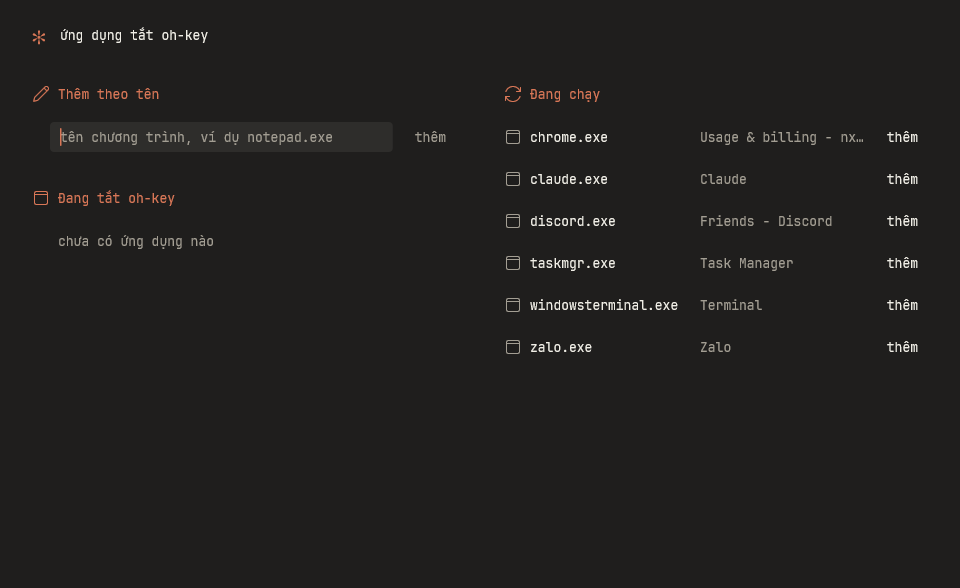
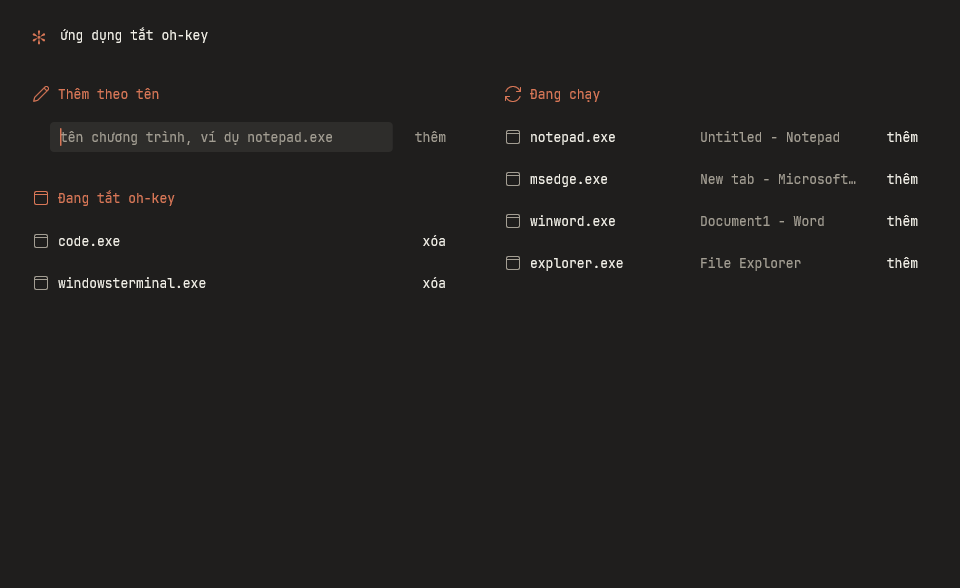
Prepare the source archive for public release
Docs point install, issues and security reports at codepawl/oh-key-releases.
The excluded-apps render draws sample apps instead of this machine's windows.
Test fixtures use made-up names, internal notes are reworded, and the agent
notes are left out of git archive.

diff --git a/crates/oh-key-app/src/report.rs b/crates/oh-key-app/src/report.rs
@@ -150,7 +150,7 @@ pub fn scrub_text(text: &str, identity: &Identity, max_characters: usize) -> Str
     scrubbed.chars().take(max_characters).collect()
 }
 
-/// The 8.3 form Windows may use for a long profile folder: `NXAN2~1` for `nxan2long`. Only a
+/// The 8.3 form Windows may use for a long profile folder: `SOMEON~1` for `someonelong`. Only a
 /// name that is too long or holds a space gets one.
 fn short_folder_name(user_name: &str) -> Option<String> {
     let needs_short_form = user_name.chars().count() > 8 || user_name.contains(' ');
@@ -1038,12 +1038,12 @@ mod tests {
     #[test]
     fn names_are_matched_whatever_the_case_or_script() {
         let identity = Identity {
-            home: Some("C:\\Users\\Nguy\u{1ec5}n An".to_string()),
-            user_name: Some("Nguy\u{1ec5}n An".to_string()),
+            home: Some("C:\\Users\\Tr\u{1ea7}n Lan".to_string()),
+            user_name: Some("Tr\u{1ea7}n Lan".to_string()),
             computer_name: None,
         };
         assert_eq!(
-            scrub_text("by NGUY\u{1ec4}N AN today", &identity, 100),
+            scrub_text("by TR\u{1ea6}N LAN today", &identity, 100),
             "by user today"
         );
     }
@@ -1052,11 +1052,11 @@ mod tests {
     fn the_short_form_of_a_long_profile_folder_is_scrubbed() {
         let identity = Identity {
             home: None,
-            user_name: Some("Nguyenxuanan".to_string()),
+            user_name: Some("Someonelongname".to_string()),
             computer_name: None,
         };
         assert_eq!(
-            scrub_text(r"C:\Users\NGUYEN~1\a.txt", &identity, 100),
+            scrub_text(r"C:\Users\SOMEON~1\a.txt", &identity, 100),
             r"C:\Users\user\a.txt"
         );
     }

diff --git a/crates/oh-key-app/src/excluded_apps_window.rs b/crates/oh-key-app/src/excluded_apps_window.rs
@@ -949,10 +949,12 @@ fn scroll_note(rows: &Range<usize>, total: usize) -> String {
 
 /// `oh-key.exe --render-png excluded-apps out.png`: the window drawn into a file, with the
 /// settings' list and the programs open now.
+/// Draws sample apps, never this machine's settings or open windows: the render ships in the
+/// docs, and window titles carry private text.
 pub fn render_png(graphics: &Graphics, path: &Path) -> Result<()> {
     let offscreen = Offscreen::new(graphics, WIDTH as u32, window_height().round() as u32)?;
-    let apps = oh_key_ipc::load_settings().excluded_apps;
-    let running = running_programs();
+    let apps = vec!["code.exe".to_owned(), "windowsterminal.exe".to_owned()];
+    let running = sample_running_programs();
     let offered = programs_to_offer(&running, &apps);
     let view = View {
         apps: &apps,
@@ -963,6 +965,21 @@ pub fn render_png(graphics: &Graphics, path: &Path) -> Result<()> {
     };
     draw(&offscreen.target, graphics, &view, None);
     offscreen.save_png(path)
+}
+
+fn sample_running_programs() -> Vec<RunningApp> {
+    [
+        ("notepad.exe", "Untitled - Notepad"),
+        ("msedge.exe", "New tab - Microsoft Edge"),
+        ("winword.exe", "Document1 - Word"),
+        ("explorer.exe", "File Explorer"),
+    ]
+    .into_iter()
+    .map(|(exe, title)| RunningApp {
+        exe: exe.to_owned(),
+        title: title.to_owned(),
+    })
+    .collect()
 }
 
 #[cfg(test)]

diff --git a/crates/oh-key-app/src/mode_effects.rs b/crates/oh-key-app/src/mode_effects.rs
@@ -3,8 +3,8 @@
 //!
 //! Full screen apps still get both: that is where the tray icon is hidden and the user most
 //! needs to see the switch. Windows reports any window covering the monitor (a maximised
-//! browser, a borderless game) as "busy", so that state cannot mean "quiet" (measured on the
-//! owner's PC, 2026-11-13: "busy" with only ordinary apps open, which hid the effect at random).
+//! browser, a borderless game) as "busy", so that state cannot mean "quiet" (with only ordinary
+//! apps open it can report "busy", which hid the effect at random).
 //! Only two states hold something back: a Direct3D game in exclusive full screen keeps the sound
 //! but loses the badge, since a topmost window can knock it out of exclusive mode, and
 //! Windows' presentation mode silences both. The badge also follows Windows' "Animation

diff --git a/crates/oh-key-engine/tests/english_mixed.rs b/crates/oh-key-engine/tests/english_mixed.rs
@@ -98,7 +98,7 @@ fn code_and_tech_tokens_survive() {
                 "https://github.com/codepawl/oh-key",
                 "https://github.com/codepawl/oh-key",
             ),
-            ("an.nx@gmail.com", "an.nx@gmail.com"),
+            ("mai.lan@gmail.com", "mai.lan@gmail.com"),
             ("v1.2.3", "v1.2.3"),
             ("--release", "--release"),
             ("package.json", "package.json"),

diff --git a/crates/oh-key-engine/examples/mixed_corpus.rs b/crates/oh-key-engine/examples/mixed_corpus.rs
@@ -350,8 +350,8 @@ const CODE_AND_TECH: &[&str] = &[
     "__init__",
     "https://github.com/codepawl/oh-key",
     "a.b@example.com",
-    "an.nx@gmail.com",
-    "C:\\Users\\an\\file.txt",
+    "mai.lan@gmail.com",
+    "C:\\Users\\lan\\file.txt",
     "/usr/local/bin",
     "./src/main.rs",
     "v1.2.3",

diff --git a/docs/research/unikey-engine.md b/docs/research/unikey-engine.md
@@ -9,7 +9,7 @@ GPL, "either version 2 of the License, or (at your option) any later version" (h
   charset.cpp, charset.h, data.cpp, convert.cpp, error.cpp, pattern.cpp, pattern.h, unikey.cpp, unikey.h, vnconv.h, keycons.h
 NO licence header at all: byteio.cpp, byteio.h, data.h (tiny; do not rely on them, rewrite).
 Whole ibus-unikey repo root LICENSE = GPLv3 (ibus glue in src/), ukengine README: "ukengine (with changes for better use in my project) taking from project x-unikey".
-Nothing is "GPL v2 only". Everything is v2-or-later, so a port can be GPL-2.0-or-later (also GPLv3-compatible). If oh-key copies only the engine files (LGPL) it could be LGPL-2.0+, but the charset tables (data.cpp) and keycons/vnconv are GPL, so a port that includes them must be GPL-2.0-or-later. Practical rule: make oh-key GPL-2.0-or-later (or GPL-3.0-or-later) and keep a NOTICE crediting Pham Kim Long / UniKey; or avoid copying by regenerating the Unicode tables from Unicode itself and the syllable tables from Vietnamese phonotactics (they are facts), then the licence is free. Flag to lead: this decides the workspace `license` field; a private repo is fine either way, but publishing binaries needs GPL source offer.
+Nothing is "GPL v2 only". Everything is v2-or-later, so a port can be GPL-2.0-or-later (also GPLv3-compatible). If oh-key copies only the engine files (LGPL) it could be LGPL-2.0+, but the charset tables (data.cpp) and keycons/vnconv are GPL, so a port that includes them must be GPL-2.0-or-later. Practical rule: make oh-key GPL-2.0-or-later (or GPL-3.0-or-later) and keep a NOTICE crediting Pham Kim Long / UniKey; or avoid copying by regenerating the Unicode tables from Unicode itself and the syllable tables from Vietnamese phonotactics (they are facts), then the licence is free. Publishing binaries needs the GPL source to go with them.
 
 ====================================================================
 2. DATA TABLES
@@ -117,4 +117,4 @@ Approach: hub-and-spoke through StdVnChar. Each charset implements `nextInput(by
 - Backspace accounting (getSeqSteps) for the engine: UNICODE and XUTF8 -> 1 per char; everything else -> encoded byte length of the char (apps delete by bytes in these charsets); UNIDECOMPOSED -> bytes/2.
 OhKey recommendation: Unicode NFC precomposed output only in the engine (backs = chars); keep legacy charsets in a separate converter crate using the std-index hub; generate the tables from data.cpp (SingleByteTables lines 96-242, DoubleByteTables 244-342, WinCP1258 343-394, VIQR/UnicodeComposite 441-520) by a script rather than retyping; copying them makes that crate GPL-2.0+.
 
-SUMMARY OF INVOLVED FILES: ukengine/{ukengine.cpp (2388 lines, algorithm), inputproc.cpp (keymaps), vnlexi.h (enums), data.cpp (charset tables), mactab.cpp, charset.cpp}. No project files were created or modified; no checks run (research only).
+SUMMARY OF INVOLVED FILES: ukengine/{ukengine.cpp (2388 lines, algorithm), inputproc.cpp (keymaps), vnlexi.h (enums), data.cpp (charset tables), mactab.cpp, charset.cpp}.

diff --git a/README.md b/README.md
@@ -18,17 +18,15 @@ Early. The engine, charset conversion and the Windows app are in place. The macO
 
 ### Windows
 
-While the repository is private, the install needs the [GitHub CLI](https://cli.github.com) signed in.
+Run this in PowerShell:
 
 ```powershell
-gh auth login
-gh repo clone codepawl/oh-key
-.\oh-key\install.ps1
+irm https://raw.githubusercontent.com/codepawl/oh-key-releases/main/install.ps1 | iex
 ```
 
-`install.ps1` downloads the latest release for your processor (x64, x86 or arm64) and checks its SHA-256. It copies `oh-key.exe` and `oh-key-cli.exe` to `%LOCALAPPDATA%\Programs\oh-key` and starts the app. No administrator rights are needed. Add `-StartAtSignIn` to start the app at every sign-in.
+The script downloads the latest release for your processor (x64, x86 or arm64) and checks its SHA-256. It copies `oh-key.exe` and `oh-key-cli.exe` to `%LOCALAPPDATA%\Programs\oh-key` and starts the app. No administrator rights are needed. To start the app at every sign-in too, save `install.ps1` and run `.\install.ps1 -StartAtSignIn`.
 
-You can also download `oh-key-windows-<arch>.zip` from the latest release and unzip it anywhere.
+You can also download `oh-key-windows-<arch>.zip` from the [latest release](https://github.com/codepawl/oh-key-releases/releases/latest) and unzip it anywhere.
 
 ### macOS
 

diff --git a/server/report-worker/README.md b/server/report-worker/README.md
@@ -31,7 +31,7 @@ npx wrangler secret put GITHUB_TOKEN
 npm run deploy
 ```
 
-Make sure the `auto-report` label exists in the repo (GitHub drops unknown labels on issue creation only if you lack triage rights; creating the label first is safest). Then set `REPORT_ENDPOINT` in the Windows and macOS apps to `https://oh-key-report.<your-subdomain>.workers.dev/v1/report`.
+Make sure the `auto-report` label exists in the repo (GitHub drops unknown labels on issue creation only if you lack triage rights; creating the label first is safest). Then set `REPORT_ENDPOINT` in the Windows and macOS apps to the address of your Worker (the project's own runs on `https://oh-key-report.codepawl.com/v1/report`, set by `routes` in `wrangler.toml`).
 
 ## Develop
 

diff --git a/SECURITY.md b/SECURITY.md
@@ -4,7 +4,7 @@ An input method sees every key you type, so security reports matter to us.
 
 ## Report a problem
 
-Report a security problem privately on GitHub: open the **Security** tab of this repository and pick **Report a vulnerability**. Do not open a public issue for it.
+Report a security problem privately on GitHub: open the **Security** tab of [codepawl/oh-key-releases](https://github.com/codepawl/oh-key-releases/security) and pick **Report a vulnerability**. Do not open a public issue for it.
 
 We reply as soon as we can and say what we will do.
 

diff --git a/CONTRIBUTING.md b/CONTRIBUTING.md
@@ -4,7 +4,7 @@ Thanks for helping. The most useful things right now are typing bug reports and 
 
 ## Report a bug
 
-Open an issue with the bug report form. Include:
+Open an issue in [codepawl/oh-key-releases](https://github.com/codepawl/oh-key-releases/issues). Include:
 
 - The version: `oh-key-cli --version`.
 - Your system and the application where it happens.
